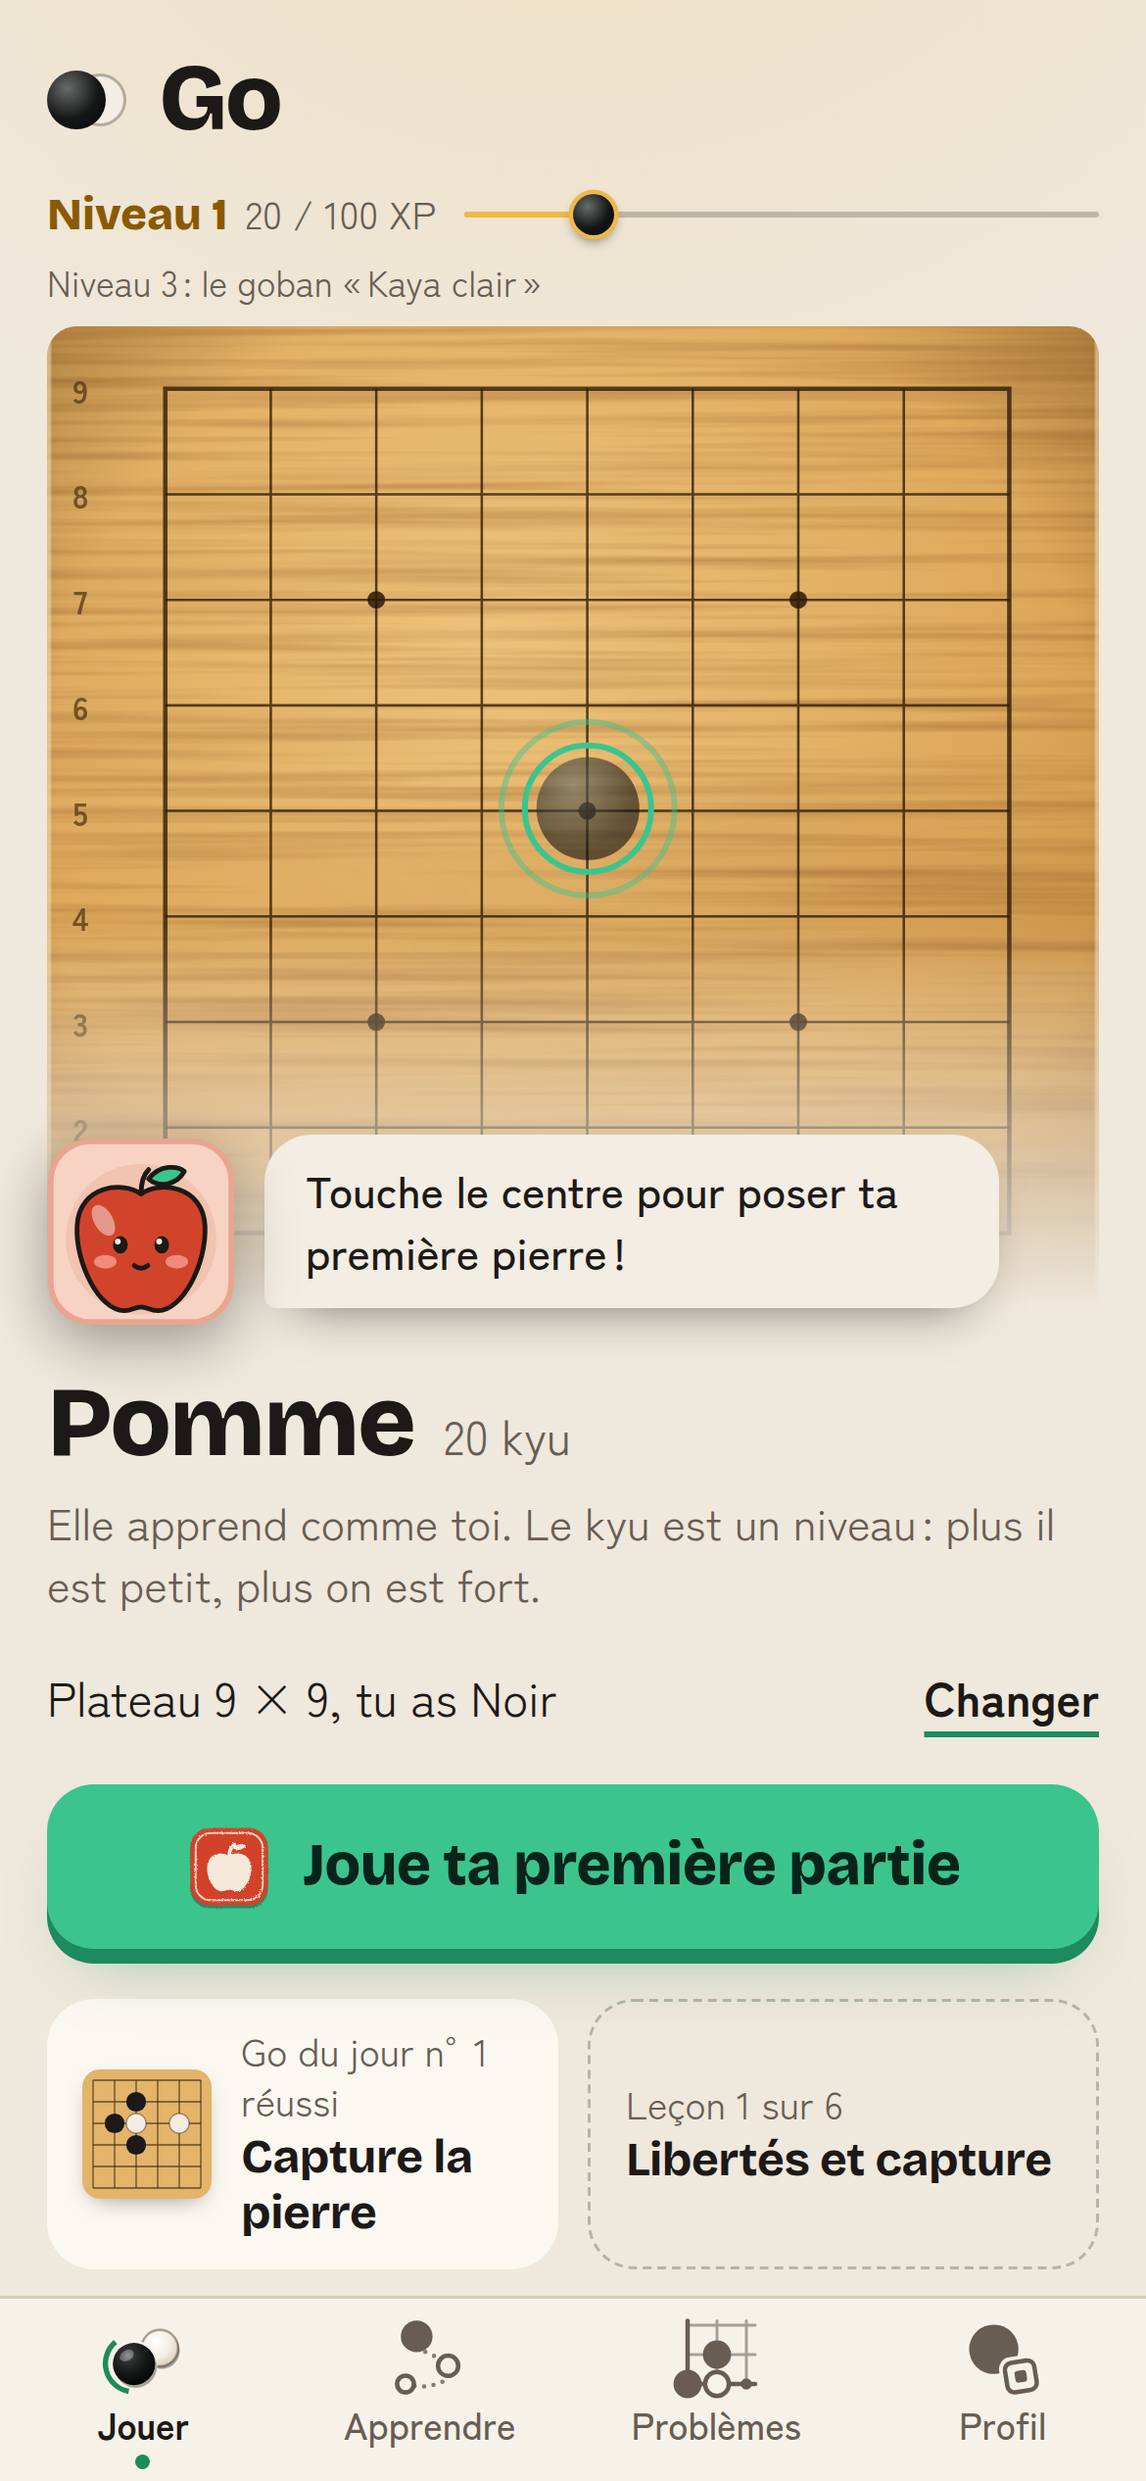
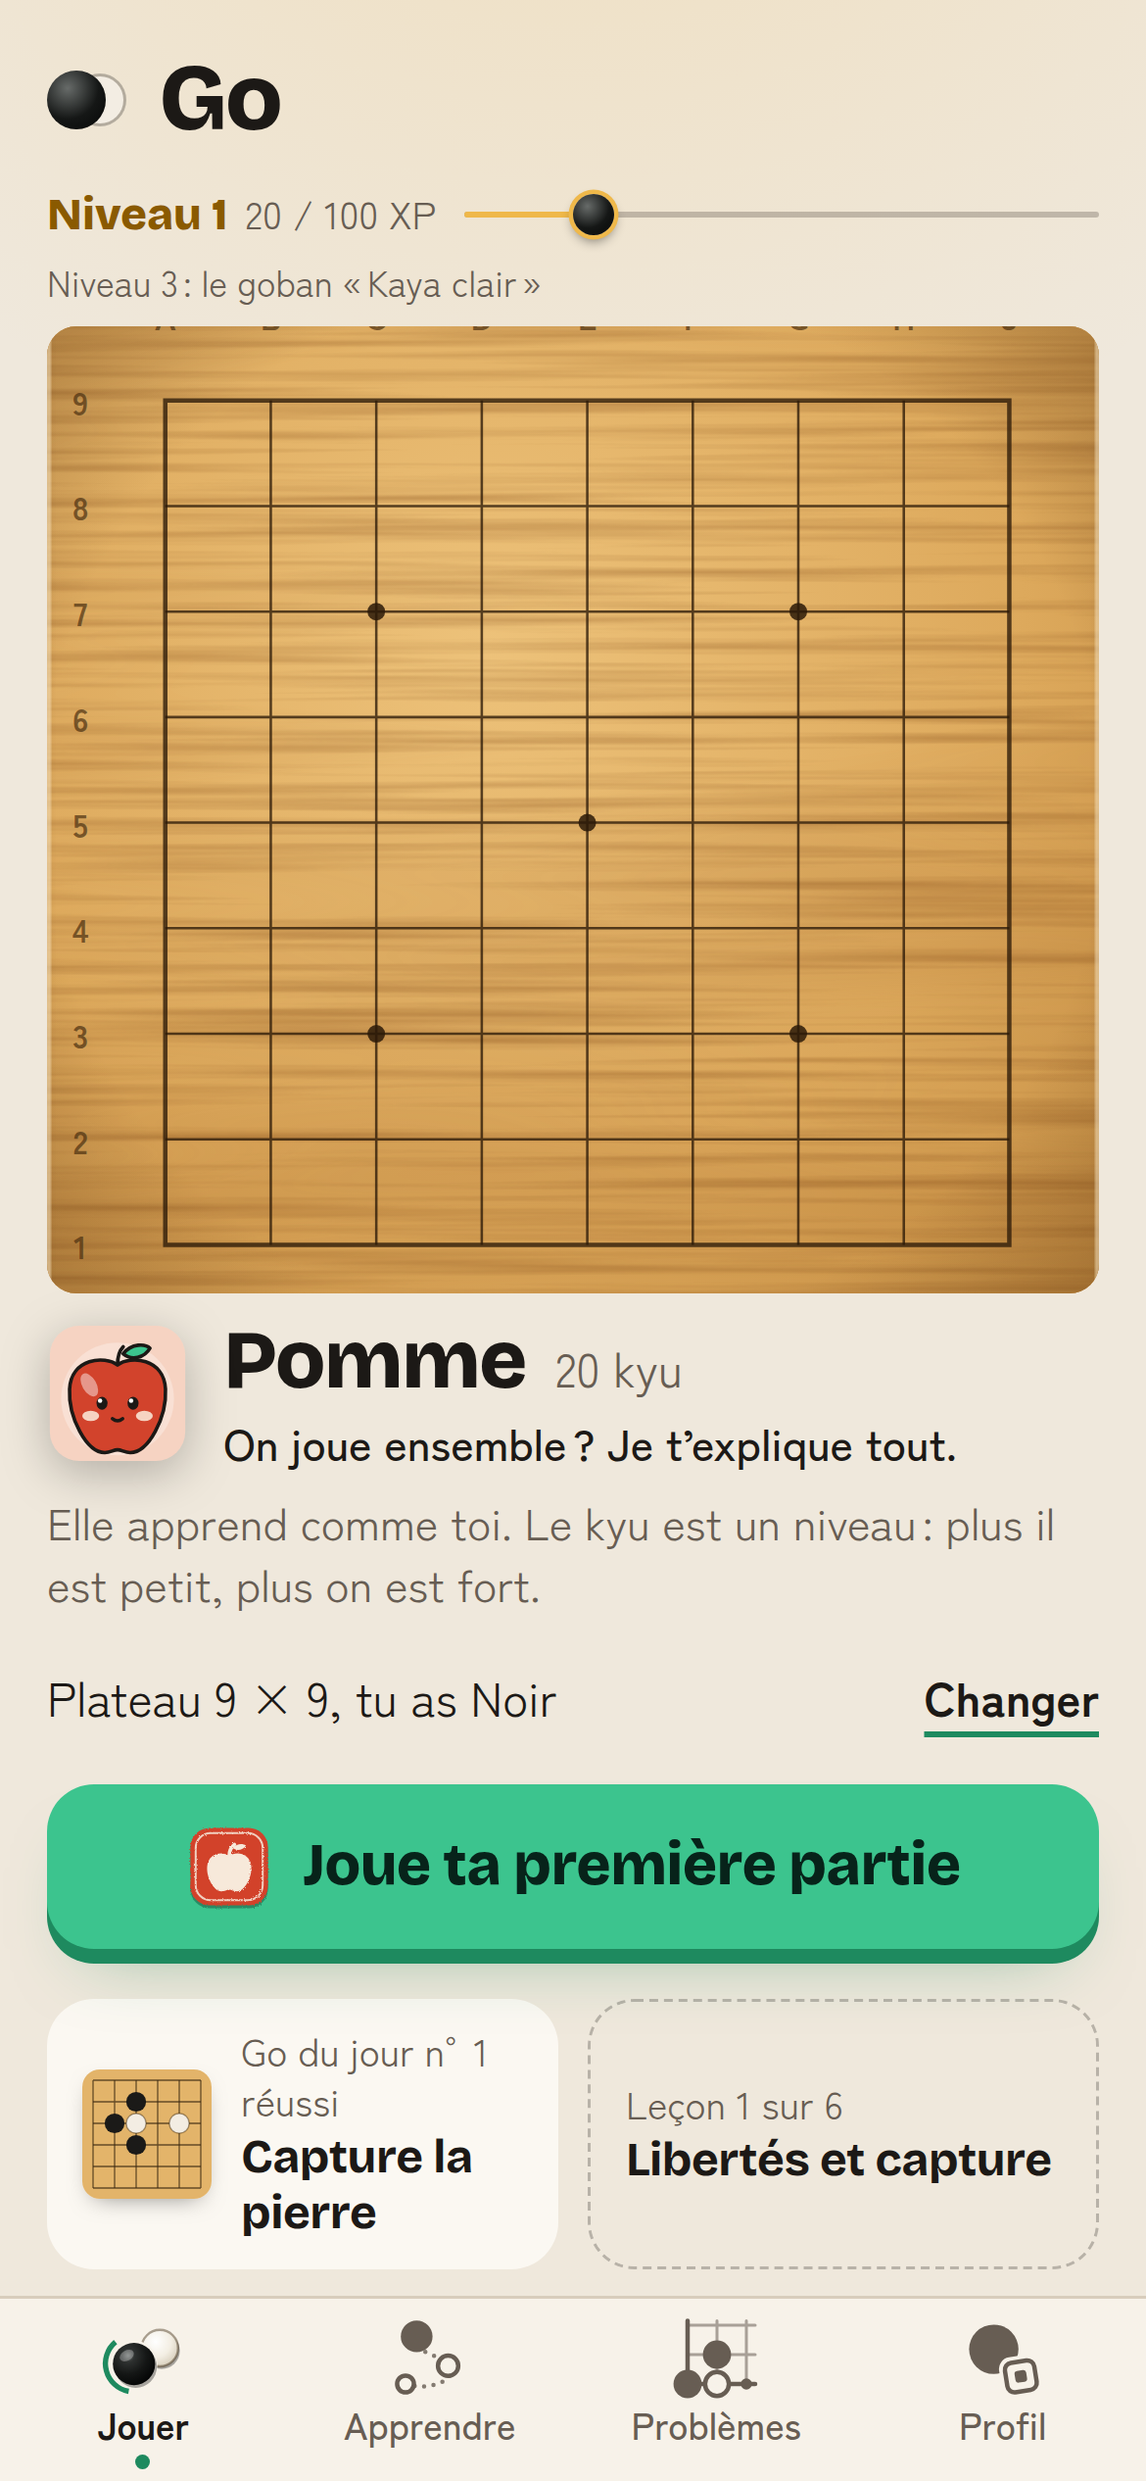
Accueil à une seule action principale (#119) (#140)
- Le bouton « Joue ta première partie » est la seule action principale.
- Le goban devient une illustration entière : plus de masque, plus de pierre
  fantôme qui pulse, plus de bulle par-dessus. Les 9 lignes sont visibles à
  390 × 844. Il reste touchable (même effet que le bouton), sans y inviter.
- Pomme parle sous le plateau (portrait, nom, réplique) : la bulle ne cache
  plus aucune ligne. Ses répliques ne disent plus « touche le plateau ».
- Barre XP et tuiles Go du jour / leçon inchangées, en second plan.
- Tests : Vitest (home.test.ts), nouvelle e2e accueil-une-action.spec.ts avec
  captures 390 × 844 sombre et clair ; premiere-pierre et portraits adaptées.

Claude-Session: https://claude.ai/code/session_01MBh4E5pGWe9HRzjpTV2rVx

diff --git a/src/ui/accueil.css b/src/ui/accueil.css
@@ -23,37 +23,23 @@
 .app-home .top { margin-bottom: var(--space-3); }
 .accueil { flex: 1; display: flex; flex-direction: column; container-type: inline-size; }
 
-/* ---------- Le goban d'accueil ---------- */
-/* Hauteur libre, jusqu'au plateau entier la bulle mordant sur le bas comme sur la maquette (le plateau est carré : 100cqw de haut). */
-.scene { position: relative; flex: 1 1 0; min-height: 200px; max-height: calc(100cqw + 28px); }
-.scene-plateau { position: absolute; inset: 0; overflow: hidden; border-radius: var(--radius-plateau); cursor: pointer;
-  -webkit-mask-image: linear-gradient(#000 60%, transparent 98%); mask-image: linear-gradient(#000 60%, transparent 98%); }
-/* Plateau calé en haut ; s'il manque de la place, son centre (la pierre fantôme) reste au 47 % de la hauteur et le haut est recadré. */
-.scene-cadre { position: absolute; left: 0; right: 0; top: min(0px, calc(47% - 50cqw)); }
+/* ---------- Le goban d'accueil (issue #119 : une illustration, plus une seconde action) ---------- */
+/* Hauteur libre, jusqu'au plateau entier (carré : 100cqw). Aucun masque ni bulle par-dessus : les 9 lignes restent visibles.
+   S'il manque de la place, le plateau est centré et recadré en haut et en bas à parts égales. */
+.scene { position: relative; flex: 1 1 0; min-height: 200px; max-height: 100cqw; }
+.scene-plateau { position: absolute; inset: 0; overflow: hidden; border-radius: var(--radius-plateau); cursor: pointer; }
+.scene-cadre { position: absolute; left: 0; right: 0; top: min(0px, calc(50% - 50cqw)); }
 .scene-cadre .board-wrap { box-shadow: none; margin-bottom: 0; }
-/* Repère carré posé sur l'image du goban : la pierre fantôme s'y place au centre du plateau (calculé dans Accueil.tsx). */
-.fantome-repere { position: absolute; left: 0; top: 0; width: 100%; aspect-ratio: 1; pointer-events: none; }
-.fantome { position: absolute; left: 50%; top: 50%; aspect-ratio: 1; transform: translate(-50%, -50%); border-radius: 50%; pointer-events: none;
-  background: radial-gradient(circle at 36% 30%, rgba(106, 111, 108, .6), rgba(21, 23, 22, .6) 60%, rgba(5, 6, 6, .6)); }
-.fantome::before, .fantome::after { content: ""; position: absolute; inset: -5px; border-radius: 50%; border: 2px solid var(--jade); }
-.fantome::after { inset: -13px; opacity: .45; }
-@media (prefers-reduced-motion: no-preference) {
-  /* Seul mouvement spontané de l'écran : deux ondes qui disent « touche ici ». */
-  .fantome::before, .fantome::after { inset: -5px; animation: onde 2.6s cubic-bezier(.2, .6, .3, 1) infinite; }
-  .fantome::after { animation-delay: 1.3s; opacity: 1; }
-}
-@keyframes onde { from { transform: scale(1); opacity: .95; } to { transform: scale(2.2); opacity: 0; } }
 
-/* Réplique de l'adversaire, posée sur le bas du goban. Laisse passer le toucher vers le plateau. */
-.scene-bulle { position: absolute; left: 0; right: 0; bottom: 0; display: flex; align-items: flex-end; gap: 10px; pointer-events: none; padding-right: 8px; }
-.scene-bulle .sceau { --sceau-socle: var(--papier); filter: drop-shadow(0 6px 10px rgba(0, 0, 0, .35)); }
-.scene-bulle p { margin: 0 0 6px; max-width: 250px; background: var(--papier); color: var(--sumi); border-radius: var(--radius) var(--radius) var(--radius) var(--radius-xs);
-  padding: 9px 14px; font-size: var(--fs-corps-s); line-height: 1.35; font-weight: var(--fw-medium); box-shadow: 0 8px 18px -10px rgba(0, 0, 0, .6); }
-
-/* ---------- Adversaire ---------- */
-.adversaire-identite { display: flex; align-items: baseline; gap: 10px; margin-top: var(--space-4); }
-.adversaire-identite h2 { margin: 0; font-size: 2.125rem; font-weight: var(--fw-titre); line-height: 1; }
+/* ---------- Adversaire : portrait, nom et réplique, sous le plateau ---------- */
+.adversaire { display: flex; align-items: center; gap: 12px; margin-top: var(--space-2); }
+.adversaire .portrait { filter: drop-shadow(0 4px 8px rgba(0, 0, 0, .25)); }
+.adversaire-texte { min-width: 0; flex: 1; }
+.adversaire-identite { display: flex; align-items: baseline; gap: 10px; }
+.adversaire-identite h2 { margin: 0; font-size: 1.75rem; font-weight: var(--fw-titre); line-height: 1.1; }
 .adversaire-identite span { color: var(--muted); }
+/* La réplique, texte simple : elle accompagne le bouton, elle n'en est pas un second. */
+.scene-bulle { margin: 2px 0 0; font-size: var(--fs-corps-s); line-height: 1.35; font-weight: var(--fw-medium); color: var(--text); }
 .phrase { margin: 6px 0 0; color: var(--muted); font-size: var(--fs-corps-s); line-height: 1.4; max-width: 34em; }
 
 .reglage { display: flex; align-items: center; justify-content: space-between; gap: var(--space-3); min-height: var(--cible-min); margin: 6px -12px var(--space-2) 0; }
@@ -173,7 +159,6 @@
 .vignette-tampon { position: absolute; right: -16px; bottom: 0; transform: rotate(-12deg); padding: 1px 4px; border: 1.5px solid #D2432C; border-radius: 4px;
   color: #D2432C; background: var(--tampon-papier); font: 800 9px/1.2 var(--font-titre); letter-spacing: .04em; }
 .carte[aria-pressed="true"] .vignette .portrait { box-shadow: 0 0 0 3px var(--accent); border-radius: 50%; }
-.scene-bulle .portrait { filter: drop-shadow(0 6px 10px rgba(0, 0, 0, .35)); }
 /* L'action principale reste visible en bas de la feuille, même quand la liste des adversaires défile (issue #102). */
 .feuille-corps > .btn.primary { position: sticky; bottom: var(--space-2); z-index: 1; box-shadow: 0 0 0 8px var(--surface), 0 -12px 16px 4px var(--surface); }
 .palier .carte small { line-height: 1.2; }

diff --git a/e2e/accueil-une-action.spec.ts b/e2e/accueil-une-action.spec.ts
@@ -1,0 +1,47 @@
+import { expect, test } from '@playwright/test';
+
+// Issue #119 : accueil à une seule action principale (compris en 3 secondes, modèle chess.com).
+// Le bouton est la seule action ; le goban est une illustration entière (9 lignes visibles), sans bulle par-dessus.
+for (const theme of ['dark', 'light'] as const) {
+  test(`une seule action principale, plateau entier visible (${theme})`, async ({ page }) => {
+    await page.setViewportSize({ width: 390, height: 844 });
+    await page.emulateMedia({ colorScheme: theme, reducedMotion: 'reduce' });
+    await page.goto('/');
+
+    await expect(page.locator('.cta')).toHaveCount(1);
+    await expect(page.locator('.cta')).toBeVisible();
+    // Plus de pierre qui pulse ni de texte « touche le plateau » : rien ne pousse vers une seconde action.
+    await expect(page.locator('.fantome')).toHaveCount(0);
+    await expect(page.getByText(/touche (le centre|le plateau)/i)).toHaveCount(0);
+
+    await page.screenshot({ path: `docs/design/v2/captures/accueil-une-action-${theme}.png` });
+
+    // Le plateau n'est ni masqué ni recouvert : il est entier dans sa zone.
+    const g = await page.evaluate(() => {
+      const zone = document.querySelector('.scene-plateau')!.getBoundingClientRect();
+      const svg = document.querySelector('.scene-plateau svg')!.getBoundingClientRect();
+      const bulle = document.querySelector('.scene-bulle')!.getBoundingClientRect();
+      const cta = document.querySelector('.cta')!.getBoundingClientRect();
+      const nav = document.querySelector('nav')!.getBoundingClientRect();
+      return { zoneHaut: zone.top, zoneBas: zone.bottom, svgHaut: svg.top, svgBas: svg.bottom, bulleHaut: bulle.top, ctaBas: cta.bottom, navHaut: nav.top, ctaH: cta.height,
+        large: document.documentElement.scrollWidth, vue: window.innerWidth };
+    });
+    // Recadrage toléré : la marge du bois et la bande des coordonnées (moins d'une demi-case de chaque côté).
+    // Les 9 lignes, elles, restent entières.
+    const demiCase = (g.svgBas - g.svgHaut) / 20;
+    expect(g.svgHaut).toBeGreaterThanOrEqual(g.zoneHaut - demiCase);
+    expect(g.svgBas).toBeLessThanOrEqual(g.zoneBas + demiCase);
+    expect(g.bulleHaut).toBeGreaterThanOrEqual(g.zoneBas);
+    // Le bouton principal est au-dessus de la barre de navigation, sans défiler, et fait au moins 44 px.
+    expect(g.ctaBas).toBeLessThanOrEqual(g.navHaut);
+    expect(g.ctaH).toBeGreaterThanOrEqual(44);
+    expect(g.large).toBeLessThanOrEqual(g.vue);
+
+  });
+}
+
+test('le goban reste touchable : il lance la même partie que le bouton', async ({ page }) => {
+  await page.goto('/');
+  await page.getByTestId('plateau-accueil').tap();
+  await expect(page.getByText(/Le but\s: entourer plus de territoire que Pomme/)).toBeVisible();
+});

diff --git a/src/app/Accueil.tsx b/src/app/Accueil.tsx
@@ -1,8 +1,7 @@
 // Écran d'accueil v2 (issue #40, phase 4 ; maquette docs/design/v2/maquettes-v2.png, écran de gauche).
-// Le goban est l'image d'accueil : le toucher lance la partie, comme le bouton principal.
+// Issue #119 : une seule action principale, le bouton. Le goban est l'illustration ; le toucher lance aussi la partie.
 import { useEffect, useMemo, useRef } from 'react';
 import { Board } from '../ui/Board';
-import { R, boardWidth, viewBoxOf } from '../ui/boardArt';
 import { Sceau } from '../ui/Sceau';
 import { Portrait } from '../ui/Portrait';
 import { CarrouselAdversaires, type CarteAdversaire } from '../ui/Carrousel';
@@ -44,29 +43,30 @@ const AIDE_TAILLE: Record<Taille, string> = {
 
 export function Accueil(p: Props) {
   const { adv, textes, taille } = p;
-  // Géométrie du goban (src/ui/boardArt.ts) : le viewBox a une bande de coordonnées en haut et à gauche,
-  // le centre du plateau n'est donc pas au milieu de l'image.
-  const vb = viewBoxOf(taille), centre = `${((boardWidth(taille) / 2 - vb.min) / vb.span) * 100}%`;
   const kyu = /kyu/.test(adv.rang) ? ' Le kyu est un niveau : plus il est petit, plus on est fort.' : '';
   return (
     <div className="accueil">
+      {/* Le goban est une illustration : plateau entier, aucune bulle ni pierre qui pulse par-dessus.
+          Il reste touchable (même effet que le bouton), sans y inviter. */}
       <div className="scene">
         {/* Doublon tactile du bouton principal : masqué aux lecteurs d'écran, qui ont déjà le bouton. */}
         <div className="scene-plateau" aria-hidden="true" data-testid="plateau-accueil" onClick={p.onJouer}>
           <div className="scene-cadre">
             <Board size={taille} board={PLATEAUX[taille]} />
-            <span className="fantome-repere"><span className="fantome" style={{ width: `${((2 * R) / vb.span) * 100}%`, left: centre, top: centre }} /></span>
           </div>
-        </div>
-        <div className="scene-bulle">
-          <Portrait id={adv.id} taille={64} decoratif signature={false} />
-          <p>{textes.bulle}</p>
         </div>
       </div>
 
-      <div className="adversaire-identite">
-        <h2>{adv.nom}</h2>
-        <span>{adv.rang}</span>
+      {/* L'adversaire parle sous le plateau : sa bulle ne cache plus aucune ligne. */}
+      <div className="adversaire">
+        <Portrait id={adv.id} taille={48} decoratif signature={false} />
+        <div className="adversaire-texte">
+          <div className="adversaire-identite">
+            <h2>{adv.nom}</h2>
+            <span>{adv.rang}</span>
+          </div>
+          <p className="scene-bulle">{textes.bulle}</p>
+        </div>
       </div>
       <p className="phrase">{fr(adv.phrase + (textes.nouveau ? kyu : ''))}</p>
 

diff --git a/src/app/home.ts b/src/app/home.ts
@@ -24,7 +24,8 @@ export interface Accueil {
 
 /**
  * Textes de l'accueil (espaces fines insécables avant ? ! : grâce à `fr`). L'adversaire parle, et sa réplique
- * dit la même chose que le bouton principal : toucher le plateau lance la partie.
+ * invite à la même action que le bouton principal. Issue #119 : elle ne dit plus de toucher le plateau,
+ * pour qu'il n'y ait qu'une seule action principale.
  * - Nouveau joueur (aucune partie, aucune leçon) : première pierre au centre.
  * - Leçons faites mais aucune partie : on l'invite à sa première partie.
  * - Joueur qui revient : « Rejouer contre X » si c'est son dernier adversaire, sinon « Jouer contre X ».
@@ -35,8 +36,8 @@ export function accueil(parties: Parties, lecons: number, adv: { id: string; nom
     // Le nom de l'adversaire est déjà juste au-dessus, en grand, et son sceau est dans le bouton.
     const cta = 'Joue ta première partie';
     const ctaNom = `${cta} contre ${adv.nom}`;
-    if (lecons === 0) return { nouveau: true, cta, ctaNom, bulle: fr('Touche le centre pour poser ta première pierre !') };
-    return { nouveau: false, cta, ctaNom, bulle: fr(`Bravo pour ${lecons > 1 ? `tes ${lecons} leçons` : 'ta première leçon'} ! Touche le plateau pour jouer.`) };
+    if (lecons === 0) return { nouveau: true, cta, ctaNom, bulle: fr('On joue ensemble ? Je t’explique tout.') };
+    return { nouveau: false, cta, ctaNom, bulle: fr(`Bravo pour ${lecons > 1 ? `tes ${lecons} leçons` : 'ta première leçon'} ! On passe à une vraie partie ?`) };
   }
   const rejouer = parties.dernier === adv.id;
   const cta = `${rejouer ? 'Rejouer' : 'Jouer'} contre ${adv.nom}`;
@@ -44,7 +45,7 @@ export function accueil(parties: Parties, lecons: number, adv: { id: string; nom
     nouveau: false,
     cta,
     ctaNom: cta,
-    bulle: fr(rejouer ? `Te revoilà ! On rejoue sur le ${plateau} ?` : `Une partie sur le ${plateau} ? Touche le plateau.`),
+    bulle: fr(rejouer ? `Te revoilà ! On rejoue sur le ${plateau} ?` : `Une partie sur le ${plateau} ? Je t’attends.`),
   };
 }
 

diff --git a/src/app/home.test.ts b/src/app/home.test.ts
@@ -13,7 +13,7 @@ describe('accueil', () => {
     expect(a.nouveau).toBe(true);
     expect(a.cta).toBe('Joue ta première partie');
     expect(a.ctaNom).toBe('Joue ta première partie contre Pomme');
-    expect(a.bulle).toBe('Touche le centre pour poser ta première pierre !');
+    expect(a.bulle).toMatch(/^On joue ensemble\s\? Je t’explique tout\.$/);
   });
 
   it('leçons faites, aucune partie : toujours la première partie', () => {
@@ -34,7 +34,13 @@ describe('accueil', () => {
   it('joueur qui revient avec un autre adversaire : Jouer contre lui', () => {
     const a = accueil({ n: 3, dernier: 'pomme' }, 1, caillou, 9);
     expect(a.cta).toBe('Jouer contre Caillou');
-    expect(a.bulle).toContain('Touche le plateau');
+    expect(a.bulle).toContain('Je t’attends');
+  });
+
+  it('issue #119 : la bulle ne propose jamais une seconde action (toucher le plateau)', () => {
+    for (const a of [accueil({ n: 0 }, 0, pomme, 9), accueil({ n: 0 }, 2, pomme, 9), accueil({ n: 1, dernier: 'pomme' }, 0, pomme, 9), accueil({ n: 1 }, 0, caillou, 19)]) {
+      expect(a.bulle).not.toMatch(/touche/i);
+    }
   });
 
   it('la bulle tient en deux phrases au plus', () => {

diff --git a/e2e/premiere-pierre.spec.ts b/e2e/premiere-pierre.spec.ts
@@ -11,7 +11,7 @@ test('première pierre en deux touches, accueil sans défilement', async ({ page
   await expect(cta).toHaveCount(1);
   await expect(cta).toHaveText('Joue ta première partie');
   await expect(cta).toHaveAccessibleName('Joue ta première partie contre Pomme');
-  await expect(page.getByText(/Touche le centre pour poser ta première pierre\s!/)).toBeVisible();
+  await expect(page.getByText(/On joue ensemble\s\? Je t’explique tout\./)).toBeVisible();
   await expect(page.getByRole('heading', { level: 2, name: 'Pomme' })).toBeVisible();
   await expect(page.getByText('Elle apprend comme toi.', { exact: false })).toBeVisible();
   await expect(page.getByText('Plateau 9 × 9, tu as Noir')).toBeVisible();

diff --git a/e2e/portraits.spec.ts b/e2e/portraits.spec.ts
@@ -8,7 +8,7 @@ for (const theme of ['dark', 'light'] as const) {
     // Pomme battue : Bambou s'ouvre, les suivants restent verrouillés.
     await page.addInitScript(() => localStorage.setItem('go.bilan.v1', JSON.stringify({ pomme: { v: 1, d: 0 }, caillou: { v: 1, d: 1 } })));
     await page.goto('/');
-    await expect(page.locator('.scene-bulle [data-portrait]')).toBeVisible();
+    await expect(page.locator('.adversaire [data-portrait]')).toBeVisible();
     await page.screenshot({ path: `docs/design/v2/captures/accueil-portrait-${theme}.png` });
     await page.getByRole('button', { name: 'Changer' }).click();
     await expect(page.locator('.choix-vedette [data-portrait]')).toBeVisible();
